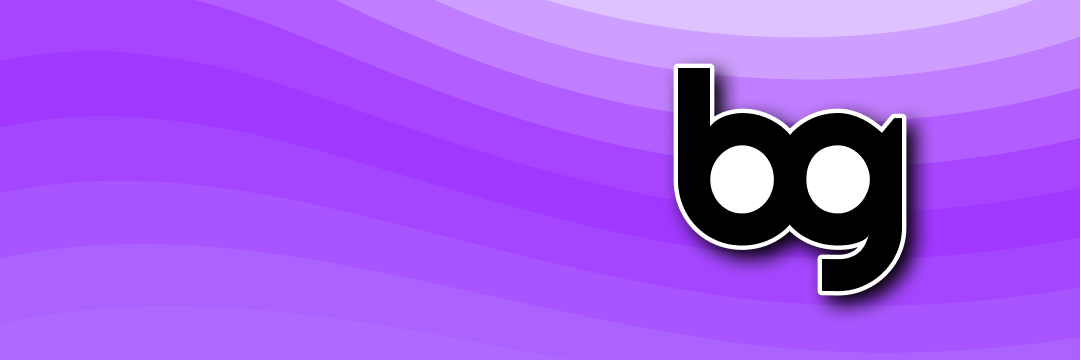
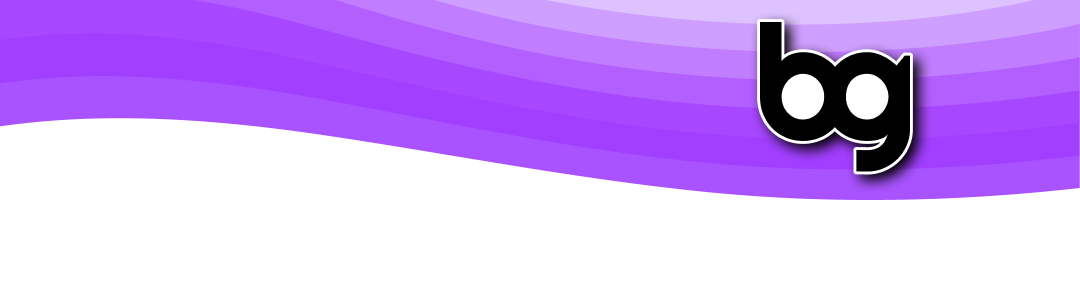
testing.

diff --git a/readme.md b/readme.md
@@ -1,5 +1,4 @@
 [![bg][banner]][website]
-<!-- ![top](https://raw.githubusercontent.com/bradgarropy/bradgarropy/master/top.png) -->
 
 ### lead frontend developer at [adobe][adobe] who likes emoji and typing in lowercase
 
@@ -14,10 +13,6 @@
 📦 [npm][npm]
 📷 [instagram][instagram]
 👔 [linkedin][linkedin]
-
-<!-- <br>
-
-![bottom](https://raw.githubusercontent.com/bradgarropy/bradgarropy/master/bottom.png) -->
 
 [banner]: https://raw.githubusercontent.com/bradgarropy/bradgarropy/master/banner.png
 [adobe]: https://adobe.com
